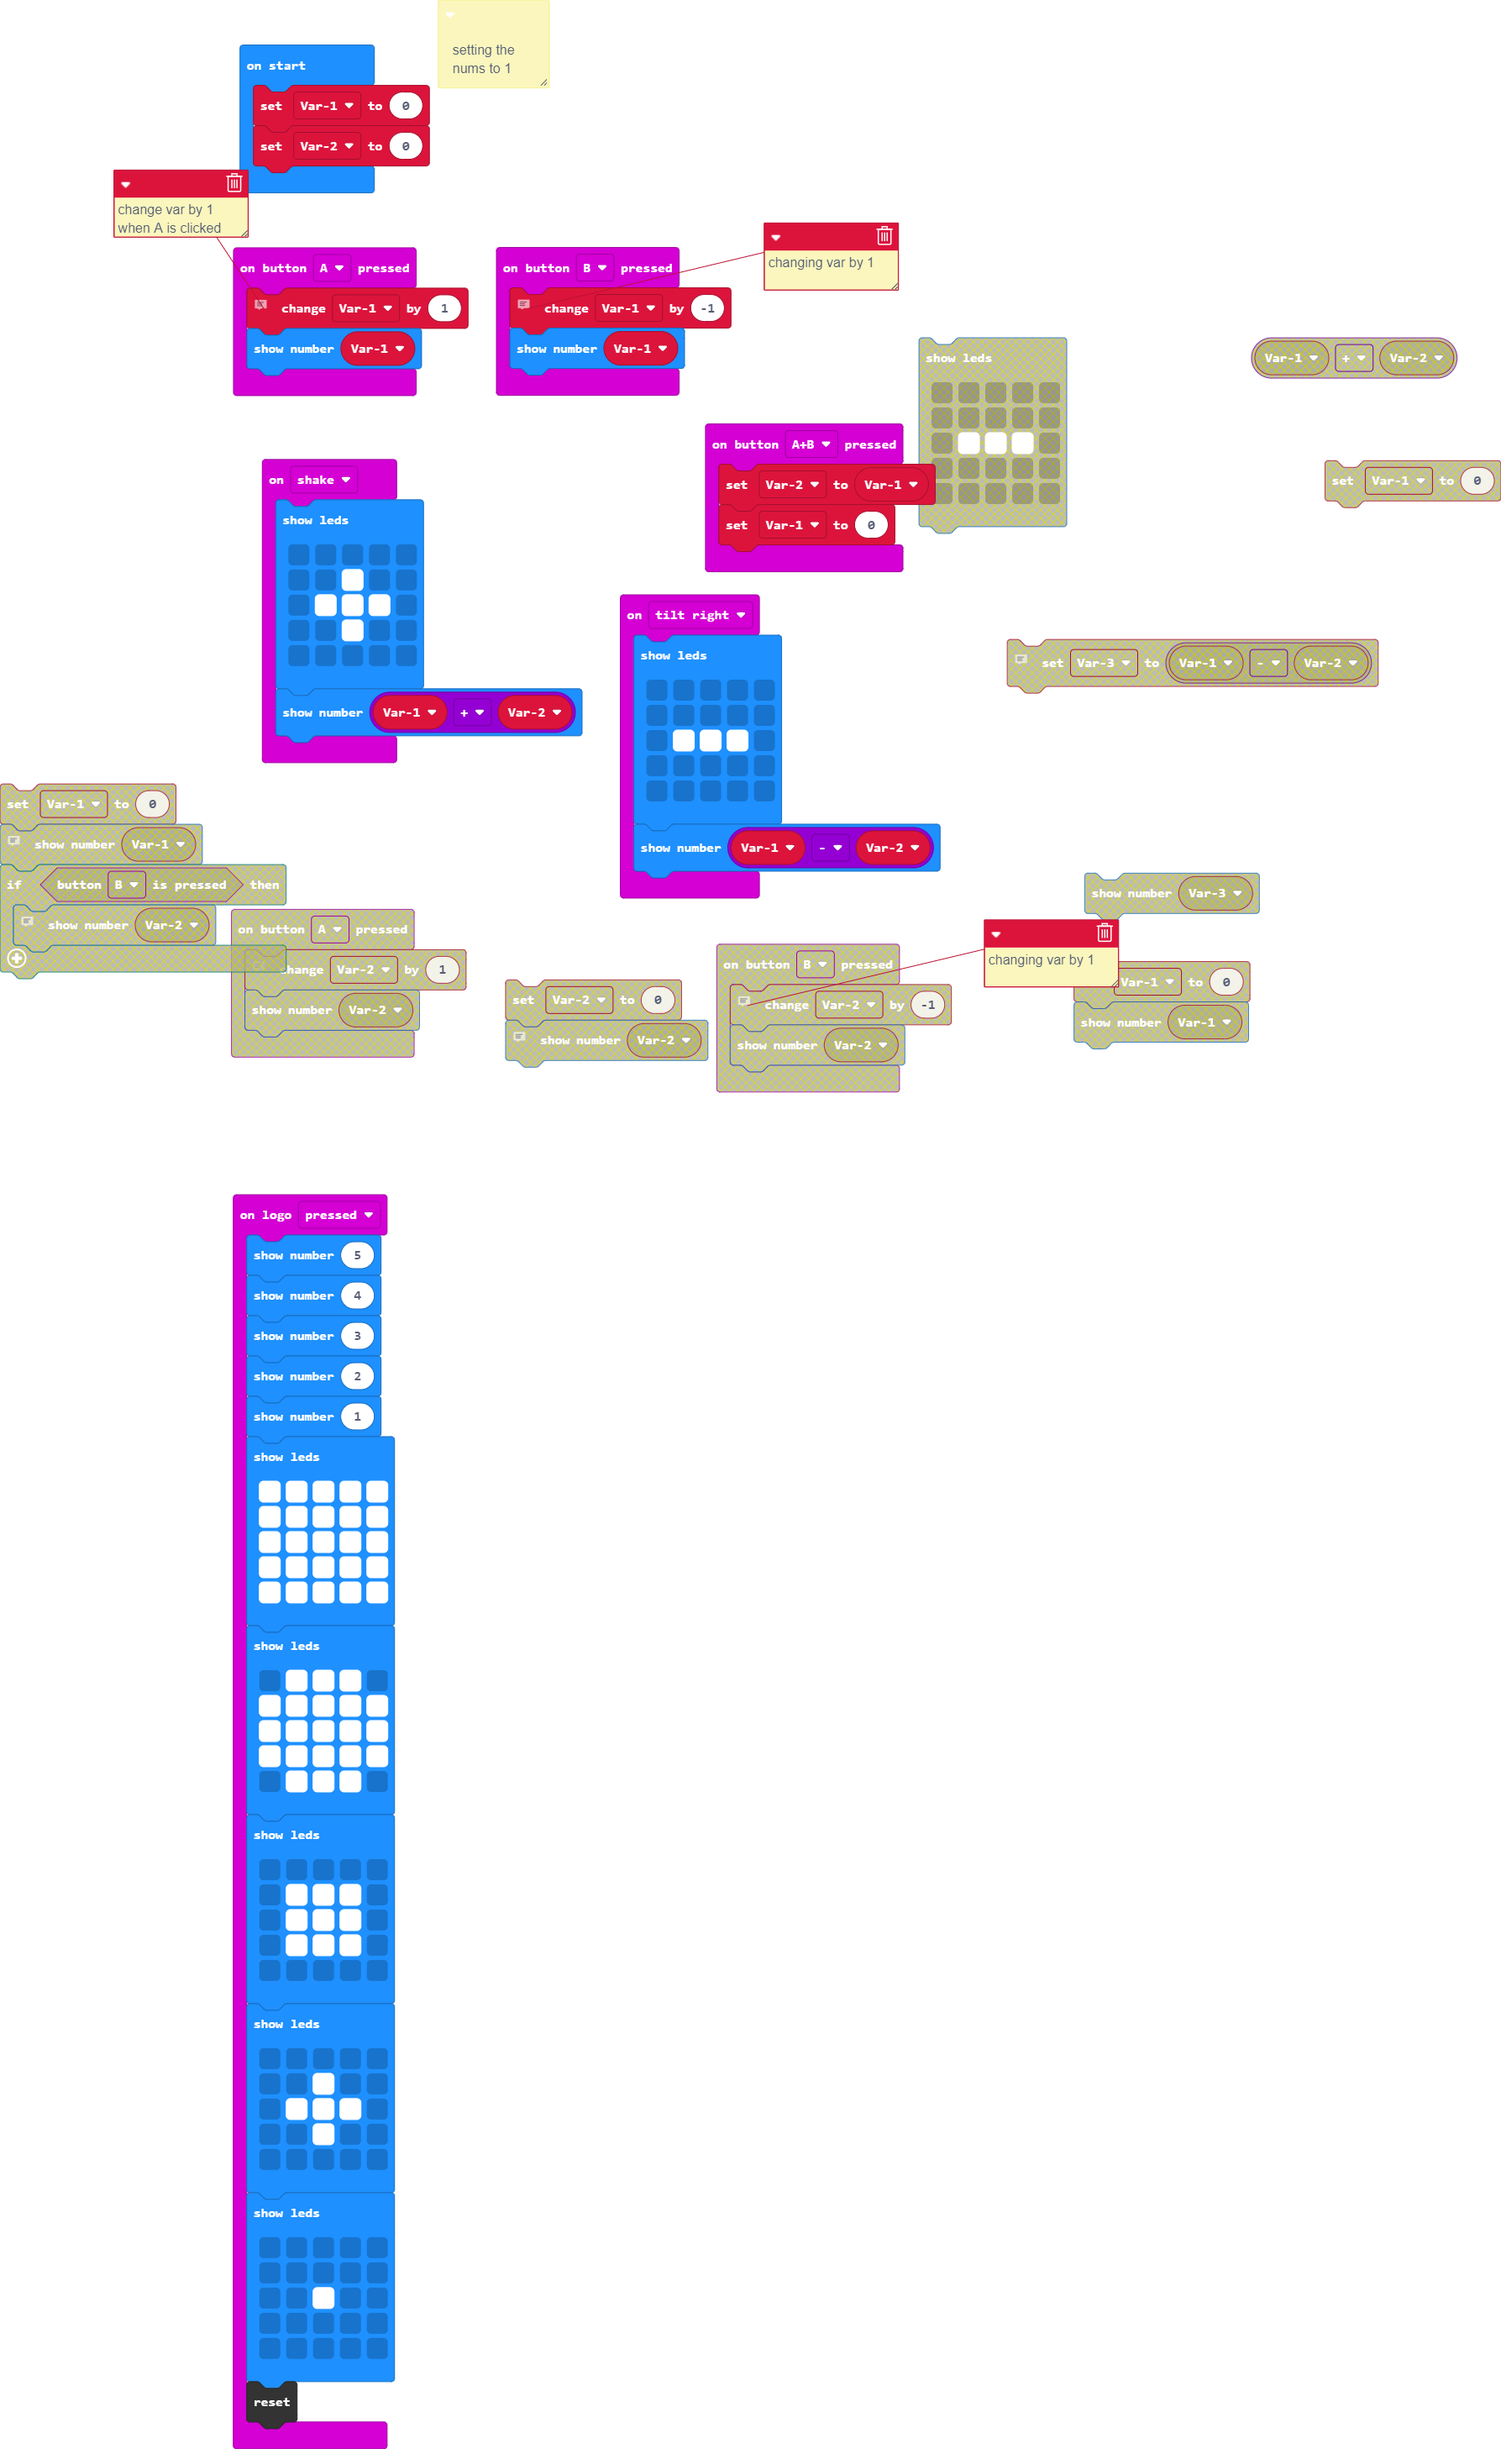
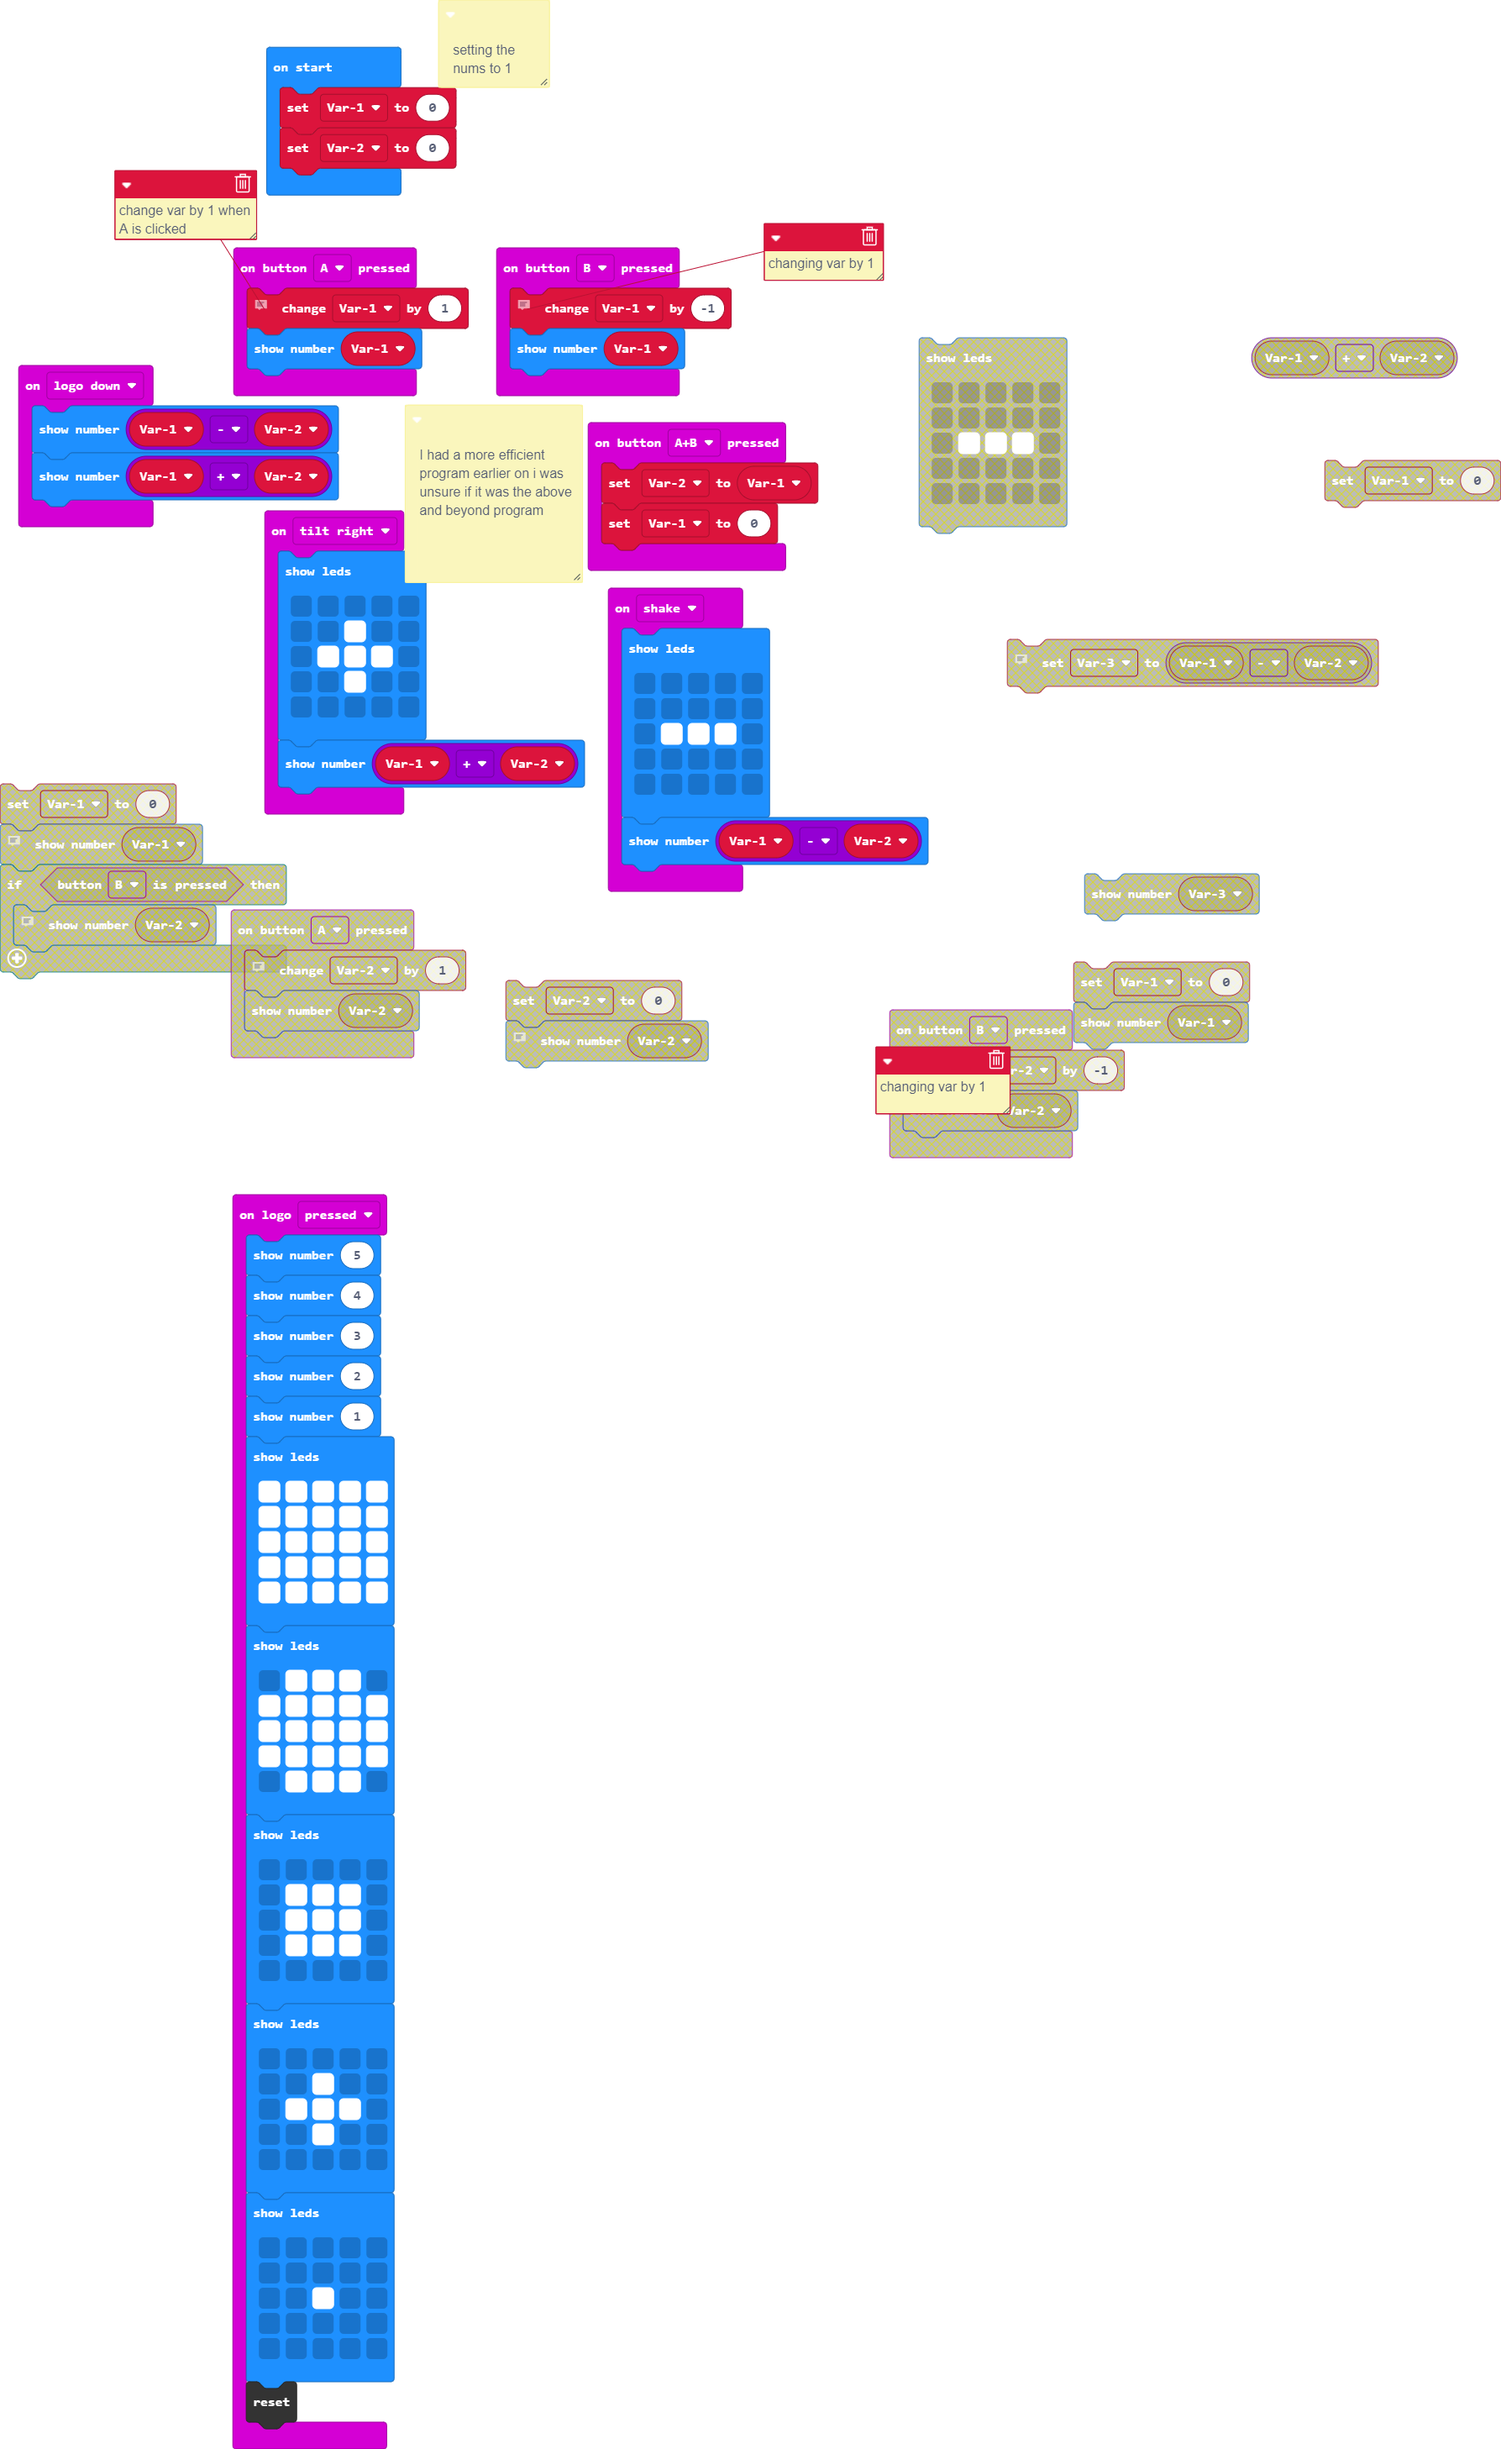
Update main.blocks, main.ts

diff --git a/main.ts b/main.ts
@@ -16,6 +16,19 @@ input.onButtonPressed(Button.B, function () {
 input.onGesture(Gesture.Shake, function () {
     basic.showLeds(`
         . . . . .
+        . . . . .
+        . # # # .
+        . . . . .
+        . . . . .
+        `)
+    basic.showNumber(Var1 - Var2)
+})
+/**
+ * I had a more efficient program earlier on i was unsure if it was the above and beyond program
+ */
+input.onGesture(Gesture.TiltRight, function () {
+    basic.showLeds(`
+        . . . . .
         . . # . .
         . # # # .
         . . # . .
@@ -23,15 +36,9 @@ input.onGesture(Gesture.Shake, function () {
         `)
     basic.showNumber(Var1 + Var2)
 })
-input.onGesture(Gesture.TiltRight, function () {
-    basic.showLeds(`
-        . . . . .
-        . . . . .
-        . # # # .
-        . . . . .
-        . . . . .
-        `)
+input.onGesture(Gesture.LogoDown, function () {
     basic.showNumber(Var1 - Var2)
+    basic.showNumber(Var1 + Var2)
 })
 input.onLogoEvent(TouchButtonEvent.Pressed, function () {
     basic.showNumber(5)
